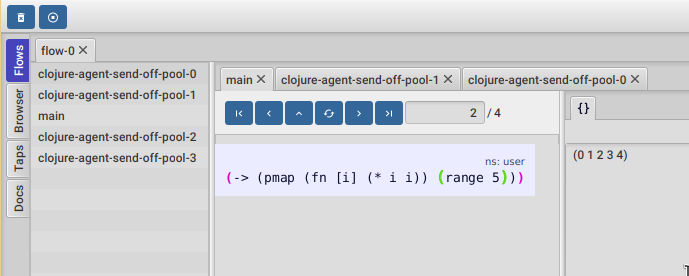
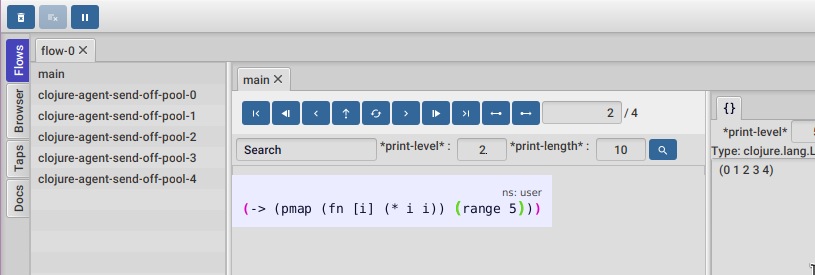
Update user guide

diff --git a/docs/user_guide.html b/docs/user_guide.html
@@ -704,6 +704,8 @@ pre.rouge {
 <li><a href="#_code_tool">4.1. Code tool</a>
 <ul class="sectlevel4">
 <li><a href="#_code_stepping">Code stepping</a></li>
+<li><a href="#_searching">Searching</a></li>
+<li><a href="#_loops">Loops</a></li>
 <li><a href="#_exception_debugging">Exception debugging</a></li>
 <li><a href="#_locals">Locals</a></li>
 <li><a href="#_stack">Stack</a></li>
@@ -711,11 +713,7 @@ pre.rouge {
 <li><a href="#_re_running_a_flow">Re running a flow</a></li>
 </ul>
 </li>
-<li><a href="#_call_stack_tree_tool">4.2. Call Stack tree tool</a>
-<ul class="sectlevel4">
-<li><a href="#_searching">Searching</a></li>
-</ul>
-</li>
+<li><a href="#_call_stack_tree_tool">4.2. Call Stack tree tool</a></li>
 <li><a href="#_functions_tool">4.3. Functions tool</a>
 <ul class="sectlevel4">
 <li><a href="#_function_calls">Function calls</a></li>
@@ -1630,6 +1628,21 @@ positions you find and then use this text box to jump back to it if you need.</p
 <div class="paragraph">
 <p>Only the forms that were executed at least once for the flow and thread will be highlighted.</p>
 </div>
+</div>
+<div class="sect4">
+<h5 id="_searching"><a class="anchor" href="#_searching"></a><a class="link" href="#_searching">Searching</a></h5>
+<div class="paragraph">
+<p>You can use the search box under the controls to search for the next expression (starting at your current step) which it&#8217;s string
+serialization contains your search text.</p>
+</div>
+<div class="paragraph">
+<p>You can use the print-level and print-length fields to control how deep this serialization will be made. If this numbers are big
+and you are searching over lots of nested data it will take some time. The search progress will be displayed at the right
+and you can always use Ctrl-g to stop the search if it is taking too long.</p>
+</div>
+</div>
+<div class="sect4">
+<h5 id="_loops"><a class="anchor" href="#_loops"></a><a class="link" href="#_loops">Loops</a></h5>
 <div class="paragraph">
 <p>When clicking on a highlighted form two things can happen :</p>
 </div>
@@ -1783,31 +1796,6 @@ You can use the refresh button at the root to update it.</p>
 </div>
 <div class="paragraph">
 <p>There are also two <a href="#_value_panels">value panels</a> at the bottom that show the arguments and return value for the currently selected function call.</p>
-</div>
-<div class="sect4">
-<h5 id="_searching"><a class="anchor" href="#_searching"></a><a class="link" href="#_searching">Searching</a></h5>
-<div class="paragraph">
-<p>You can search over function names and a string serialization of the arguments using the search tool at the top.</p>
-</div>
-<div class="paragraph">
-<p><code>*print-level*</code> controls how deeply it will serialize the arguments it will search over.</p>
-</div>
-<div class="paragraph">
-<p>Use <code>From index</code> if you don&#8217;t want to search from the beginning. It will be automatically set after each match so it is easy to keep searching forward.</p>
-</div>
-<div class="paragraph">
-<p>If the search is taking too long you can always cancel it by hitting <code>Ctrl-g</code> on the keyboard. You can always make your search faster by choosing a
-lower value for <code>*print-level*</code> or by <a href="#_un_instrument_code_2">un-instrumenting</a> unnecessary code so you have less information to search over.</p>
-</div>
-<div class="imageblock">
-<div class="content">
-<img src="user_guide_images/search_match.png" alt="search match">
-</div>
-</div>
-<div class="paragraph">
-<p>Once you have a search match the tree will auto expand but not auto scroll. If the expansion is big you will have to manually
-scroll down and use the blue link at the top to help you locate the match.</p>
-</div>
 </div>
 </div>
 <div class="sect3">
@@ -2697,7 +2685,7 @@ by providing <code>:verbose? true</code> to the options map.</p>
 </div>
 <div id="footer">
 <div id="footer-text">
-Last updated 2023-07-03 08:58:09 -0300
+Last updated 2023-07-03 14:23:35 -0300
 </div>
 </div>
 </body>
